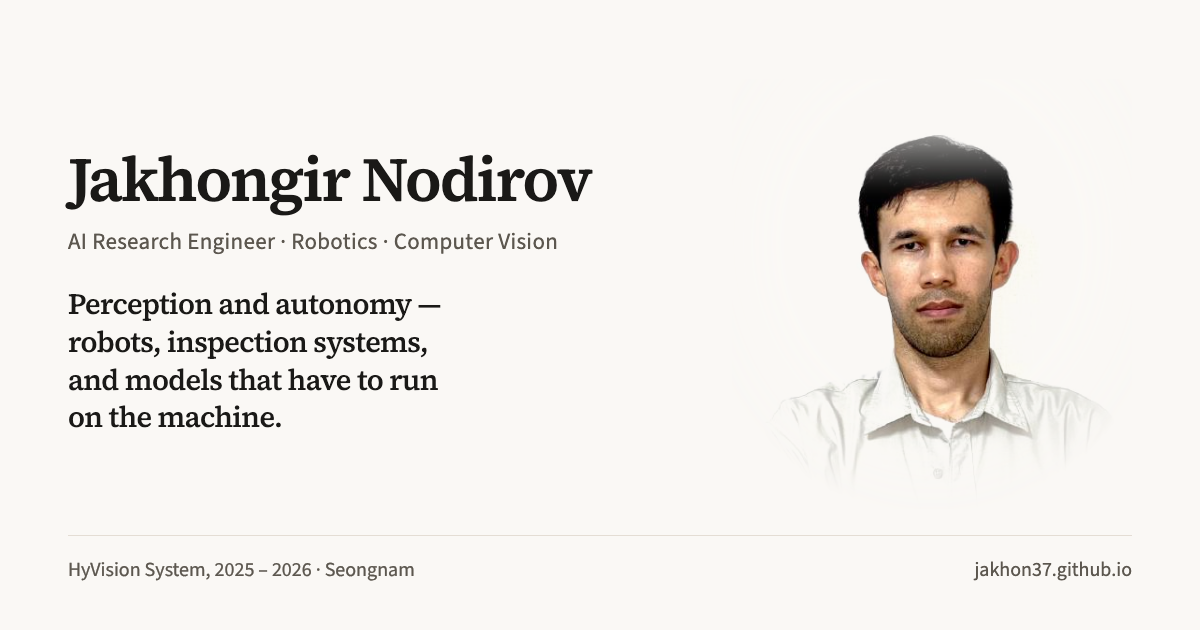
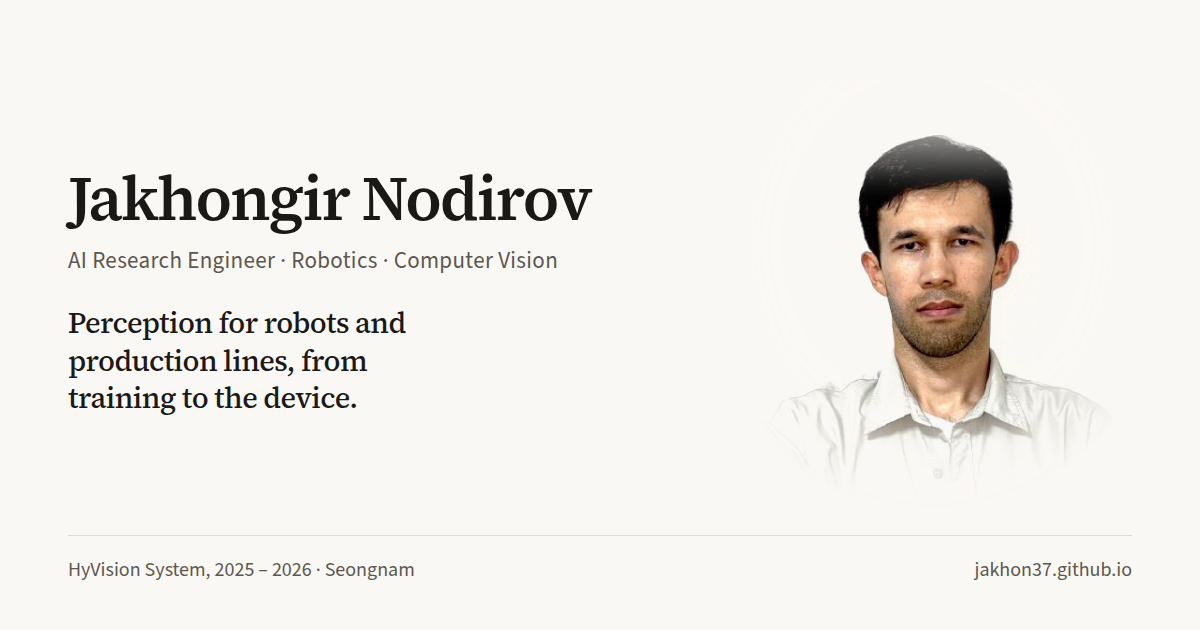
New headline: perception for robots and production lines
"Perception and autonomy — robots, inspection systems, and models that have
to run on the machine." read as a list of topics, "the machine" was vague,
and it took five lines on desktop. The new one, "Perception for robots and
production lines, from training to the device.", takes three. The sentence
under it no longer leans on the old headline's "that": it names iPhone and
semiconductor lines at HyVision and ROS 2, SLAM, Nav2 and TensorRT on
Jetson. No-break spaces keep "the device", "On Jetson", "ROS 2" and
"and TensorRT" together. The social preview image carries the new headline.

Changed region(s): [[0.0308, 0.2413, 0.4933, 0.6937], [0.0617, 0.8746, 0.3392, 0.9349], [0.8017, 0.8746, 0.925, 0.9349]]

diff --git a/src/data/site.ts b/src/data/site.ts
@@ -3,8 +3,8 @@ export const site = {
   title: "AI Research Engineer",
   focus: "Robotics · Computer Vision",
   statement:
-    "Perception and autonomy — robots, inspection systems, and models that have to run on the machine.",
-  lede: "At HyVision that was computer-vision on factory AOI equipment. On Jetson it is mobile robots: ROS 2, SLAM, Nav2, and on-device inference.",
+    "Perception for robots and production lines, from training to the\u00a0device.",
+  lede: "At HyVision, defect inspection on iPhone and semiconductor production lines. On\u00a0Jetson, mobile robots with ROS\u00a02, SLAM, Nav2 and\u00a0TensorRT.",
   affiliation: "HyVision System, 2025 – 2026 · Seongnam",
   location: "Seongnam, South Korea",
   email: "jakhon37@gmail.com",

diff --git a/scripts/og.html b/scripts/og.html
@@ -126,8 +126,8 @@
         <h1 class="name">Jakhongir Nodirov</h1>
         <p class="role">AI Research Engineer · Robotics · Computer Vision</p>
         <p class="statement">
-          Perception and autonomy — robots, inspection systems, and models that
-          have to run on the machine.
+          Perception for robots and production lines, from training to the
+          device.
         </p>
       </div>
       <div class="portrait-wrap">
